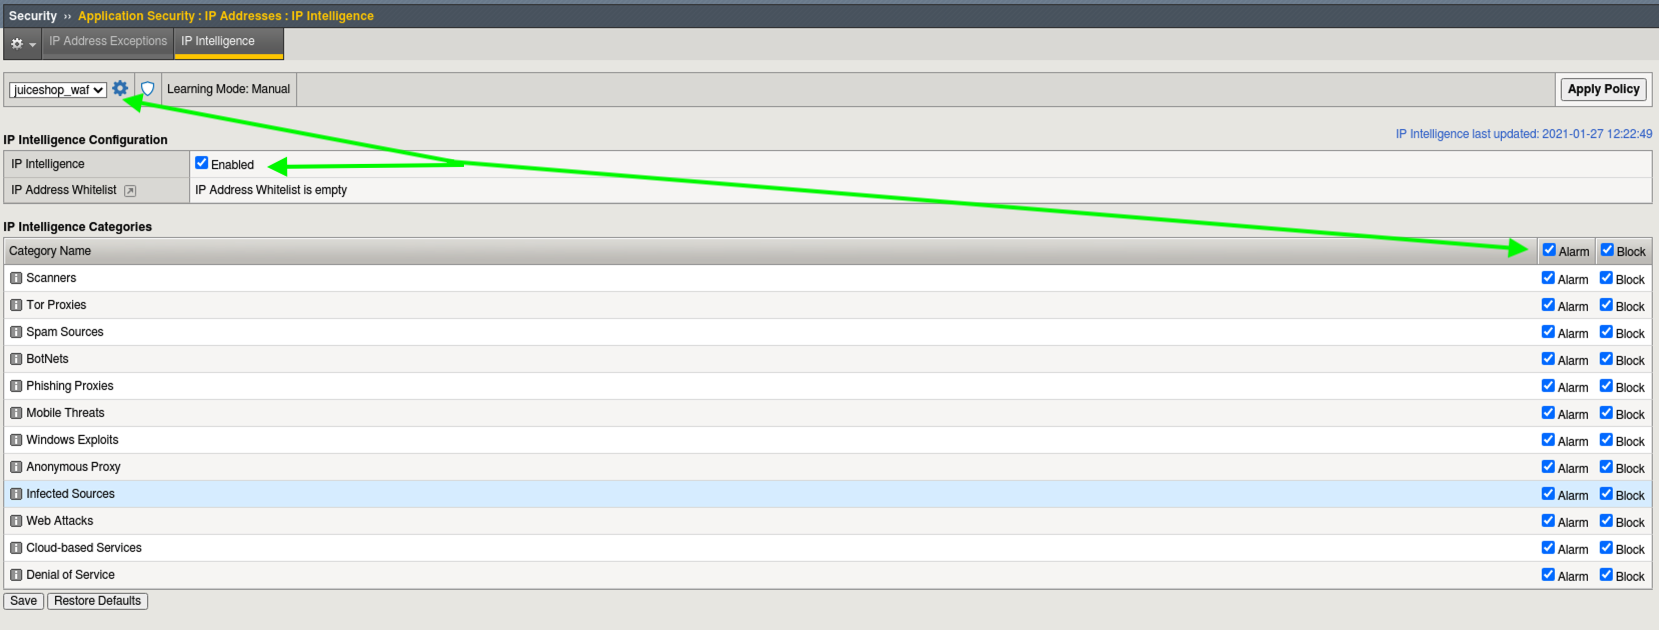
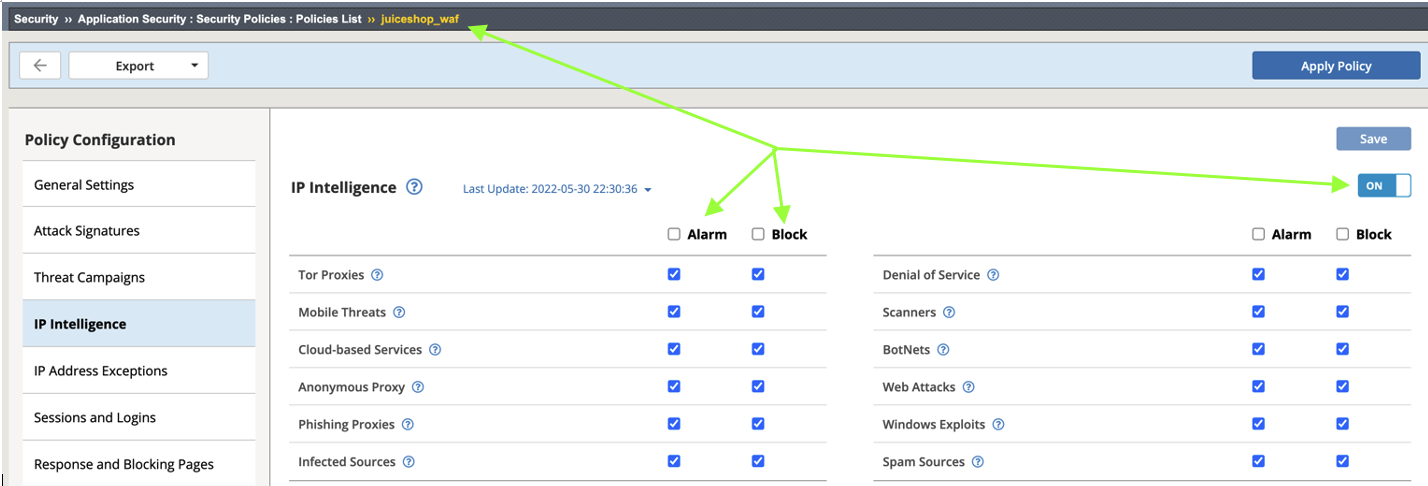
Update lab 1.1, 1.2, and added updated images

diff --git a/docs/waf102/module1-ipi-and-geo/lab1-ipi/lab1.rst b/docs/waf102/module1-ipi-and-geo/lab1-ipi/lab1.rst
@@ -44,24 +44,24 @@ In this first lab, we will start by enabling a Global IPI Policy; much like you 
 
 | 
 
-4. On the Main tab, click **Security > Network Firewall > IP Intelligence > Policies**. 
+5. On the Main tab, click **Security > Network Firewall > IP Intelligence > Policies**. 
 
 .. image:: images/ipi.png
   :width: 600 px
 
 .. NOTE:: Network Firewall IP Intelligence Policies are a layer 3 enforcement capability and part of Advanced WAF. No additional licensing is necessary beyond Advanced WAF with an IPI Subscription. 
 
-5. Click on the **Create** button.
+6. Click on the **Create** button.
 
 #. For the name:  **global_ipi** 
 
-#. Under **IP Intelligence Policy Properties** For the Default Log Action choose **yes** to **Log Category Matches**.
+#. Under **IP Intelligence Policy Properties** For the **Default Log Action** choose **yes** to **Log Category Matches**.
 
 #. Browse to the inline **Help** tab at the top left of the GUI and examine the Default Log Action settings. Inline help is very useful when navigating the myriad of options available within any configuration screen.
 
 .. NOTE:: Notice in the setting descriptions that hardware acceleration is not available when "logging all matches". This exercise is to familiarize you with the value of inline help and will not affect our virtual lab.
 
-9. To the right of the screen, click **Add** under the categories section. 
+10. To the right of the screen, click **Add** under the categories section. 
 
 #. From the category section choose **botnets** and click **Done editing**.
 
@@ -70,7 +70,7 @@ In this first lab, we will start by enabling a Global IPI Policy; much like you 
 .. image:: images/ipi_global.png
   :width: 600 px
 
-12. Commit the Changes to the System.
+13. Commit the Changes to the System.
 
 #. Under **Global Policy Assignment > IP Intelligence Policy** click on the dropdown and select the **global_ipi** policy and click **Update**.
 
@@ -89,7 +89,7 @@ Setup Logging for Global IPI
 
 Test 
 ~~~~~~~~~~~~~~~~
-#. On the Linux Client, open a terminal and **cd** to **Agility2021wafTools**
+#. On the Linux Client, open a terminal and **cd** to **Agility2022wafTools**
 #. Run the following command to send some traffic to the site: **./ipi_tester**.
 
 .. NOTE:: The script should continue to run for the remainder of Lab 1 & 2. Do NOT stop the script. 
@@ -162,7 +162,11 @@ Configure L7 IPI
 .. image:: images/ipi_waf.png
   :width: 600 px
 
-2. Navigate to **Security > Application Security > IP Addresses > IP Intelligence** and enable IP Intelligence by checking the box. 
+2. Navigate to **Security > Application Security > Security Policies** From the policy list select the **juiceshop_waf** policy. Click on **IP Intelligence** from the left panel. In the **IP Intelligence** screen click on the **OFF** slider to enable IP Intelligence
+
+.. image:: images/enable_ipi.png
+  :width: 600 px
+ 
 #. Notice at the top left drop-down that you are working within the juiceshop_waf policy context. Enable **Alarm** and **Block** for each category. 
 
 .. image:: images/waf_ipi.png

diff --git a/docs/waf102/labinfo/labinfo.rst b/docs/waf102/labinfo/labinfo.rst
@@ -27,7 +27,7 @@ The network topology implemented for this lab is very simple. The following
 components have been included in your lab environment:
 
 -  1 x Ubuntu Linux 20.04 client
--  1 x F5 BIG-IP VE (v16.0.1) running Advanced WAF with IP Intelligence & Threat Campaign Subscription Services.  
+-  1 x F5 BIG-IP VE (v16.1.2) running Advanced WAF with IP Intelligence & Threat Campaign Subscription Services.  
 -  1 x Ubuntu Linux 20.04 server
 
 The following table lists VLANS, IP Addresses and Credentials for all

diff --git a/docs/waf102/module1-ipi-and-geo/lab2-geo/lab2.rst b/docs/waf102/module1-ipi-and-geo/lab2-geo/lab2.rst
@@ -14,7 +14,7 @@ Geolocation
 .. image:: images/global_ipi.png   
   :width: 600 px
 
-2. Open **Security > Application Security > Geolocation Enforcement**
+2. Open **Security > Application Security >** click on **juiceshop_waf** policy created previously. Click **General Settings >** scroll down on the right panel to **Geolocation Enforcement**   
 
 #. Select all Geolocations **except the United States and N/A** and move them to Disallowed Geolocations. **Save** and then **Apply Policy**.
 
